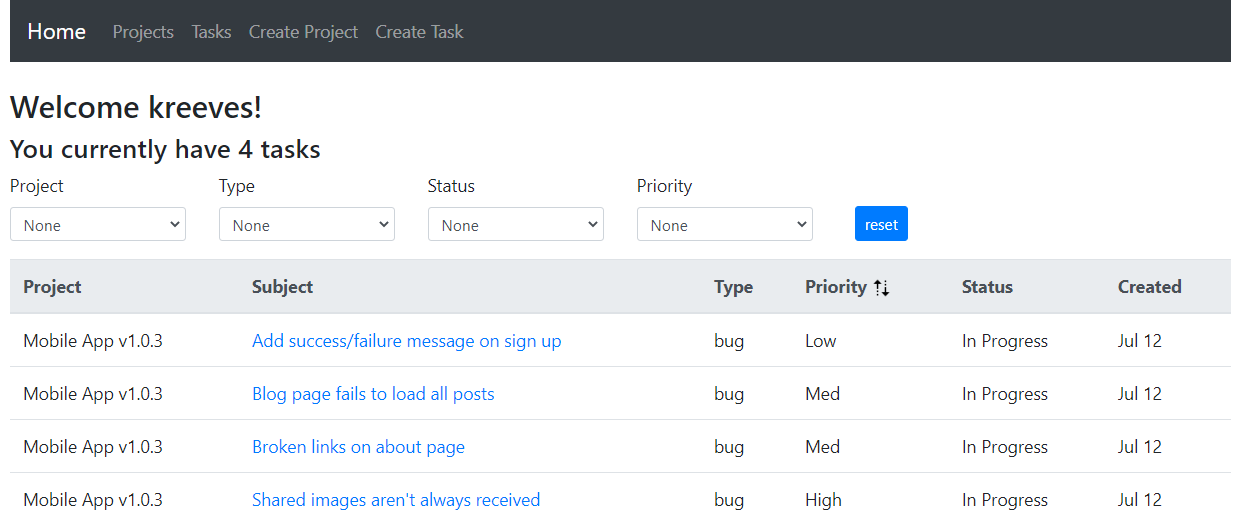
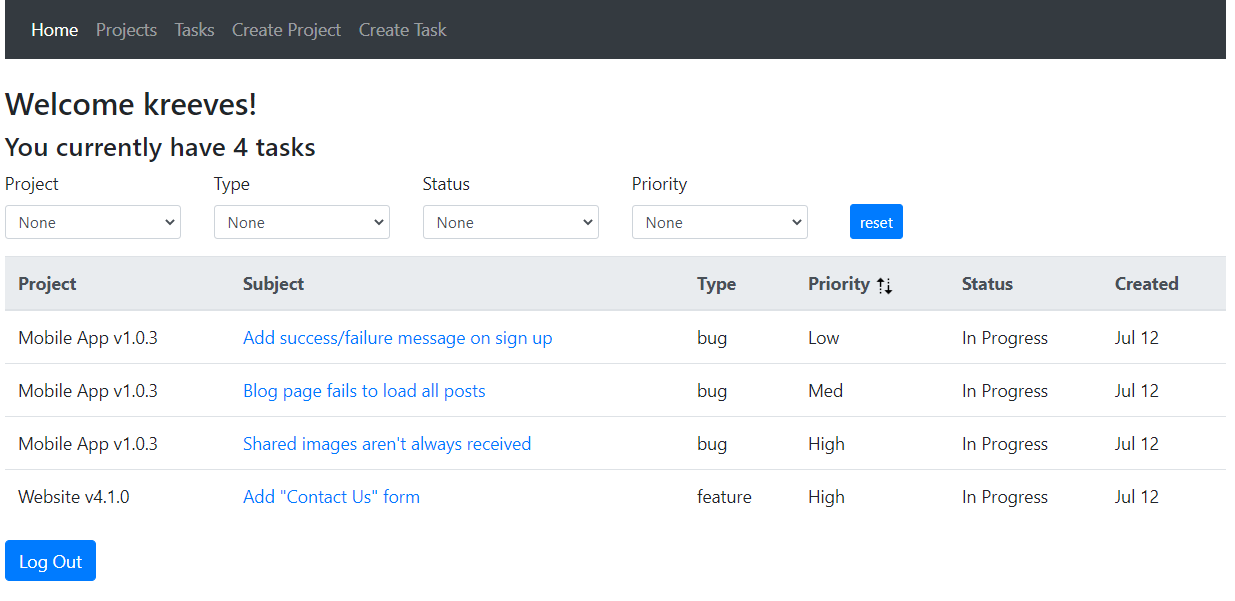
updated styling of Home link in navbar. add screenshots

diff --git a/src/components/navbar.component.js b/src/components/navbar.component.js
@@ -5,11 +5,18 @@ export default class Navbar extends Component {
   render() {
     return (
       <nav className="navbar navbar-dark bg-dark navbar-expand-lg">
-        <Link to="/" className="navbar-brand">
-          Home
-        </Link>
         <div className="collpase navbar-collapse">
           <ul className="navbar-nav mr-auto">
+            <li className="navbar-item">
+              <NavLink
+                to="/"
+                exact
+                className="nav-link"
+                activeClassName="active"
+              >
+                Home
+              </NavLink>
+            </li>
             <li className="navbar-item">
               <NavLink
                 to="/projects"
